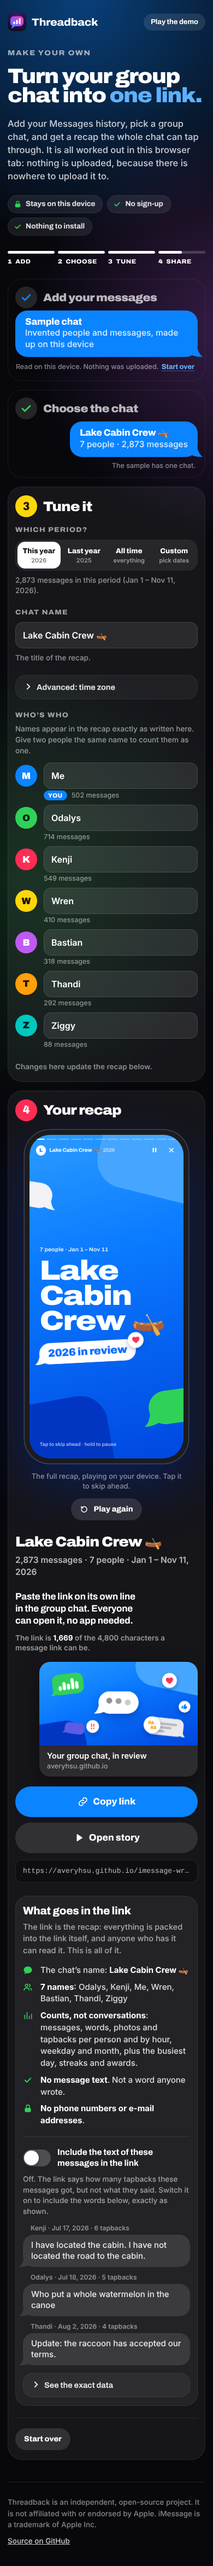
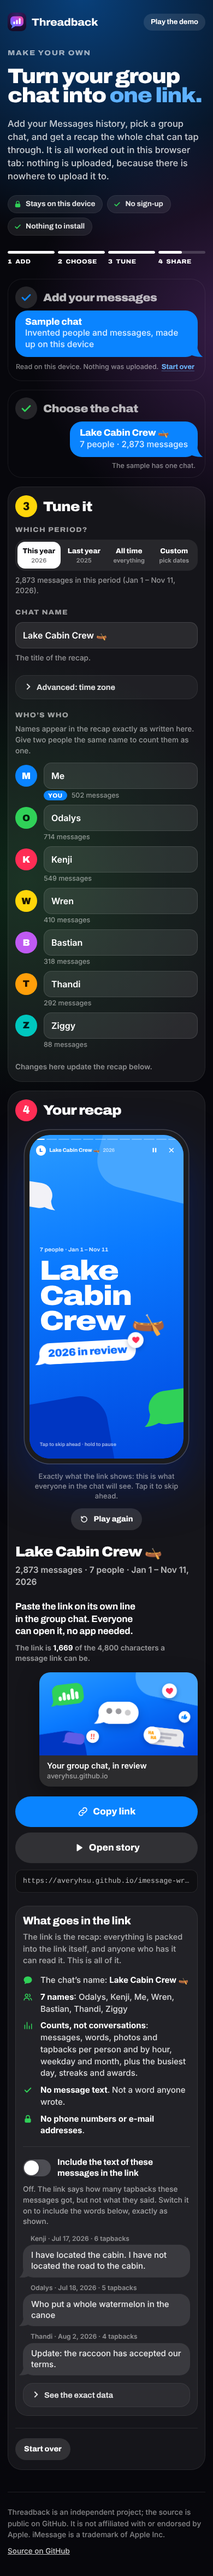
Make page: the preview holds exactly what the link holds
The preview frame used to be given the full stats, quotes included. The
story in it has its own "Copy link", which hands back the payload it was
opened with, so message text could leave the device with the quotes switch
off. The frame is now given the very payload of the share link and nothing
else: what you see is what you send, and flipping the switch rebuilds
both. An end-to-end check presses the story's own Copy link inside the
frame, switch off and switch on, and decodes what lands on the clipboard.

Also:
- First names by default. A full name from an address book is the owner's
  own label; the full name stays in the list as a local hint and one
  click brings the full names back.
- "Play again" and the nested-page guard no longer blank the frame when
  pressed while it is on its way somewhere else.
- A plain test run writes its screenshots to test-results/ and leaves the
  repository as it found it; `npm run shots:make` rewrites the committed
  pictures. CI fails if a run dirties the tree.
- Footer: "an independent project; the source is public on GitHub".
- Uneven #dates / #senders lists: the importer's message is shown as is.

Claude-Session: https://claude.ai/code/session_01HsT3WJgxawzje31yUV686t

diff --git a/web/make/make.js b/web/make/make.js
@@ -10,6 +10,10 @@
  * Privacy rules this file keeps:
  *  - nothing is requested from any other origin, and nothing is stored;
  *  - message text goes into the link only after the person switches it on (default off);
+ *  - the preview frame is given exactly the payload of the link, never more: the story in
+ *    it can copy and share its own link, so what it holds is what could be sent;
+ *  - people go by first names unless the person asks for the full ones (a full name in an
+ *    address book is the owner's own label);
  *  - raw phone numbers and e-mail addresses are shown on this device as a hint for naming
  *    people and telling chats apart, and never enter the stats, the link or the preview.
  *
@@ -33,7 +37,6 @@
   var Glyphs = root.WrappedGlyphs;
 
   var MAX_LINK = Config.MAX_URL_LENGTH;
-  var PREVIEW_MAX = 20000;          // the story refuses payloads much longer than this
   var HELP_URL = 'https://github.com/averyhsu/imessage-wrap/blob/main/docs/MAC.md';
   var DEVICE_TZ = (function () {
     try { return Intl.DateTimeFormat().resolvedOptions().timeZone || ''; } catch (error) { return ''; }
@@ -47,7 +50,8 @@
     chats: [],
     chat: null,         // {id, name, named, members, messages, last_unix, single}
     people: [],         // from the worker: [{key, name, named, handles, messages, me}]
-    names: {},          // person key -> the name typed for them
+    names: {},          // person key -> the name to show for them (typed, or a first name)
+    shortened: null,    // person key -> {short, before}: who was switched to a first name
     me: 'Me',
     chatName: '',       // typed chat name ("" = the chat's own)
     period: 'year',
@@ -533,6 +537,7 @@
       S.chat = null;
       S.people = [];
       S.names = {};
+      S.shortened = null;
       S.me = 'Me';
       S.chatName = '';
     }
@@ -1124,6 +1129,10 @@
   /** Open step 3 for S.chat. `year` (optional): the calendar year the chat is known to cover. */
   function startTune(year) {
     S.names = {};
+    S.shortened = null;
+    // First names to begin with. A full name from an address book ("Dave plumber") is the
+    // owner's private label for someone, not something to hand to the whole chat.
+    useFirstNames();
     S.me = 'Me';
     S.chatName = S.chat.named ? S.chat.name : '';
     S.start = '';
@@ -1217,9 +1226,15 @@
         input.setAttribute('aria-label', 'Name for ' + (person.handles[0] || person.name));
       }
       input.addEventListener('input', function () {
+        var typed = input.value.trim();
+        var first = S.shortened && S.shortened[person.key] ? S.shortened[person.key].short : '';
         if (person.me) S.me = input.value;
-        else if (input.value.trim() && input.value.trim() !== person.name) S.names[person.key] = input.value;
-        else delete S.names[person.key];
+        else if (typed && typed !== person.name) S.names[person.key] = input.value;
+        else if (!typed && first && person.named) S.names[person.key] = first;   // emptied: back to the first name
+        else {
+          delete S.names[person.key];
+          if (S.shortened) delete S.shortened[person.key];
+        }
         peopleTags();
         changed();
       });
@@ -1235,7 +1250,7 @@
     if (unnamed) {
       hint.textContent = (unnamed === 1 ? 'One person has' : unnamed + ' people have') +
         ' no name yet, so they would show as the last four digits of their number, like \u201C\u20261234\u201D. Type a name to replace it. ' +
-        'The full numbers below are only here to help you: they never go into the recap.';
+        'The full numbers shown next to each field are only there to help you: they never go into the recap.';
     }
     peopleTags();
   }
@@ -1253,23 +1268,56 @@
       var item = items[index];
       var name = shownName(person);
       item.querySelector('.mk-av').textContent = initial(name);
+      if (!person.me && person.named) {
+        item.querySelector('input').placeholder = S.shortened && S.shortened[person.key] ? S.shortened[person.key].short : person.name;
+      }
       var meta = item.querySelector('.mk-person__meta');
       meta.textContent = '';
       if (person.me) meta.appendChild(el('span', 'mk-tag mk-tag--you', 'You'));
       if (!person.me && !person.named && !(S.names[person.key] || '').trim()) meta.appendChild(el('span', 'mk-tag mk-tag--new', 'No name yet'));
       if (counts[name] > 1) meta.appendChild(el('span', 'mk-tag mk-tag--merge', 'Counted together'));
+      // Hints for the person at the keyboard only: the name as their address book has it,
+      // and the raw number or address. Neither goes into the recap.
+      if (!person.me && person.named && name !== person.name) meta.appendChild(el('span', 'mk-raw-handle', person.name));
       if (person.handles.length) meta.appendChild(el('span', 'mk-raw-handle', person.handles.join(', ')));
       meta.appendChild(el('span', '', plural(person.messages, 'message')));
       if (!person.me && /\s/.test(name)) spaced = true;
     });
-    $('first-names').hidden = !spaced;
+    var shortened = S.shortened && Object.keys(S.shortened).length > 0;
+    $('names-row').hidden = !(spaced || shortened);
+    $('names-note').textContent = shortened
+      ? 'First names to start with: the names in your address book are your own labels for people.'
+      : 'Full names are your own labels for people. The recap can use first names instead.';
+    $('first-names').textContent = shortened ? 'Use the full names' : 'Use first names only';
   }
 
   /**
-   * Shorten "Sam Rivera" to "Sam", or to "Sam R." when someone else is a Sam too. Works on
-   * the distinct names, so people who are counted together stay together and nobody is
-   * merged by accident.
+   * "Sam Rivera" -> "Sam", or "Sam R." when someone else is a Sam too, for every name in
+   * `names` that has more than one word. `taken` holds the names that stay as they are.
+   * Works on distinct names, so people who are counted together stay together and nobody
+   * is merged by accident. Returns {full name: short name}.
    */
+  function shortNames(names, taken) {
+    var used = {};
+    Object.keys(taken).forEach(function (name) { used[name] = true; });
+    var firsts = {};
+    names.forEach(function (name) {
+      var first = name.split(/\s+/)[0];
+      firsts[first] = (firsts[first] || 0) + 1;
+    });
+    var short = {};
+    names.forEach(function (name) {
+      var tokens = name.split(/\s+/);
+      var candidate = tokens[0];
+      if (firsts[candidate] > 1 || used[candidate]) candidate = tokens[0] + ' ' + Array.from(tokens[tokens.length - 1])[0] + '.';
+      if (used[candidate]) return;              // still a clash: this name stays as it is
+      used[candidate] = true;
+      short[name] = candidate;
+    });
+    return short;
+  }
+
+  /** Switch everyone with a longer name to a first name. Remembers what it replaced. */
   function useFirstNames() {
     var taken = {};
     var long = [];
@@ -1278,27 +1326,34 @@
       if (person.me || !/\s/.test(name)) taken[name] = true;
       else if (long.indexOf(name) === -1) long.push(name);
     });
-    var firsts = {};
-    long.forEach(function (name) {
-      var first = name.split(/\s+/)[0];
-      firsts[first] = (firsts[first] || 0) + 1;
-    });
-    var short = {};
-    long.forEach(function (name) {
-      var tokens = name.split(/\s+/);
-      var candidate = tokens[0];
-      if (firsts[candidate] > 1 || taken[candidate]) candidate = tokens[0] + ' ' + Array.from(tokens[tokens.length - 1])[0] + '.';
-      if (taken[candidate]) return;             // still a clash: this name stays as it is
-      taken[candidate] = true;
-      short[name] = candidate;
-    });
+    var short = shortNames(long, taken);
+    S.shortened = {};
     S.people.forEach(function (person, index) {
       if (person.me) return;
       var to = short[shownName(person)];
       if (!to) return;
+      S.shortened[person.key] = { short: to, before: S.names[person.key] };
       S.names[person.key] = to;
-      $('person-' + index).value = to;
+      var input = $('person-' + index);
+      if (input) input.value = to;
     });
+  }
+
+  /** Undo useFirstNames for every name that has not been changed by hand since. */
+  function useFullNames() {
+    var record = S.shortened || {};
+    S.people.forEach(function (person, index) {
+      var was = record[person.key];
+      if (!was || S.names[person.key] !== was.short) return;
+      if (was.before === undefined) delete S.names[person.key]; else S.names[person.key] = was.before;
+      var input = $('person-' + index);
+      if (input) input.value = S.names[person.key] || person.name;
+    });
+    S.shortened = null;
+  }
+
+  function toggleFirstNames() {
+    if (S.shortened && Object.keys(S.shortened).length) useFullNames(); else useFirstNames();
     peopleTags();
     changed();
   }
@@ -1402,13 +1457,15 @@
     }
   }
 
-  function previewLink(stats) {
+  /**
+   * The address the preview frame plays: this site's own story page with EXACTLY the
+   * payload of the link being shared. What you see is what you send. The story can copy
+   * and share its own link, so it must never be handed more than the link holds: with the
+   * quotes switch off there is no message text in the frame at all.
+   */
+  function previewAddress(link) {
     var base = new URL('../index.html', root.location.href).href.split('#')[0];
-    try {
-      return Engine.fitLink(stats, { quotes: true, base_url: base, max_length: PREVIEW_MAX }).url;
-    } catch (error) {
-      return S.fits && S.fits.off ? base + '#' + S.fits.off.url.split('#')[1] : base;
-    }
+    return base + '#' + link.url.slice(link.url.indexOf('#') + 1);
   }
 
   function onStats(stats) {
@@ -1446,7 +1503,6 @@
     clearError('recap');
     $('recap').hidden = false;
     renderRecap();
-    showPreview(previewLink(stats));
     say('Your recap is ready: ' + plural(stats.totals.messages, 'message') + '.');
   }
 
@@ -1474,12 +1530,9 @@
   function replayPreview() {
     var frame = $('preview');
     try {
-      frame.contentWindow.WrappedApp.route();
+      frame.contentWindow.WrappedApp.route();   // the story page: start over
     } catch (error) {
-      var url = S.previewUrl;
-      S.previewUrl = '';
-      frame.removeAttribute('src');
-      showPreview(url);
+      if (S.previewUrl) frame.src = S.previewUrl;   // anything else in the frame: load the story
     }
   }
 
@@ -1487,11 +1540,8 @@
   function onPreviewLoad() {
     var frame = $('preview');
     try {
-      if (/\/make\/(index\.html)?$/.test(frame.contentWindow.location.pathname)) {
-        var url = S.previewUrl;
-        S.previewUrl = '';
-        frame.removeAttribute('src');
-        if (url) showPreview(url);
+      if (S.previewUrl && /\/make\/(index\.html)?$/.test(frame.contentWindow.location.pathname)) {
+        frame.src = S.previewUrl;
       }
     } catch (error) { /* not ours to look at */ }
   }
@@ -1589,6 +1639,9 @@
 
     renderQuotes(quotesOn);
     $('raw-json').textContent = JSON.stringify(link.stats, null, 2);
+
+    // The frame plays the very link shown here: flipping the switch rebuilds both.
+    showPreview(previewAddress(link));
 
     $('share').hidden = typeof navigator.share !== 'function';
   }
@@ -1815,7 +1868,7 @@
       fillPeriod();
       changed();
     });
-    $('first-names').addEventListener('click', useFirstNames);
+    $('first-names').addEventListener('click', toggleFirstNames);
     $('create').addEventListener('click', createRecap);
 
     $('copy').addEventListener('click', copyLink);

diff --git a/web/make/index.html b/web/make/index.html
@@ -298,7 +298,7 @@
               <p class="mk-field__hint" id="people-hint">Names appear in the recap exactly as written here. Give two people the same name to count them as one.</p>
               <p class="mk-field__hint mk-field__hint--note" id="unnamed-hint" hidden></p>
               <ul class="mk-people" id="people" aria-labelledby="people-label"></ul>
-              <button type="button" class="mk-linkbtn" id="first-names" hidden>Use first names only</button>
+              <p class="mk-names" id="names-row" hidden><span id="names-note"></span> <button type="button" class="mk-linkbtn" id="first-names">Use first names only</button></p>
             </div>
           </div>
         </div>
@@ -327,7 +327,7 @@
         <div class="mk-recap" id="recap" hidden>
           <div class="mk-recap__preview">
             <div class="mk-phone"><iframe id="preview" title="Preview of your recap"></iframe></div>
-            <p class="mk-recap__cap">The full recap, playing on your device. Tap it to skip ahead.</p>
+            <p class="mk-recap__cap">Exactly what the link shows: this is what everyone in the chat will see. Tap it to skip ahead.</p>
             <button type="button" class="mk-btn mk-btn--small" id="replay"><span class="mk-ico" data-icon="replay"></span>Play again</button>
           </div>
 
@@ -387,7 +387,7 @@
   </main>
 
   <footer class="mk-foot">
-    <p><span data-brand></span> is an independent, open-source project. It is not affiliated with or endorsed by Apple. iMessage is a trademark of Apple Inc.</p>
+    <p><span data-brand></span> is an independent project; the source is public on GitHub. It is not affiliated with or endorsed by Apple. iMessage is a trademark of Apple Inc.</p>
     <p><a href="https://github.com/averyhsu/imessage-wrap" rel="noopener">Source on GitHub</a></p>
   </footer>
 </div>

diff --git a/web/make/make.css b/web/make/make.css
@@ -937,7 +937,7 @@ kbd {
 .mk-chat__name { display: block; font: 800 17.5px/1.2 var(--font-display); letter-spacing: -0.012em; overflow: hidden; text-overflow: ellipsis; white-space: nowrap; }
 .mk-chat__meta,
 .mk-chat__with { display: block; margin-top: 3px; font: 500 13.5px/1.3 var(--font-text); color: rgba(255, 255, 255, 0.58); overflow: hidden; text-overflow: ellipsis; white-space: nowrap; }
-.mk-chat__with { color: rgba(255, 255, 255, 0.42); }
+.mk-chat__with { color: rgba(255, 255, 255, 0.52); }
 .mk-chat.is-picked .mk-chat__meta,
 .mk-chat.is-picked .mk-chat__with { color: rgba(255, 255, 255, 0.8); }
 .mk-chat__count { text-align: right; font: 900 19px/1 var(--font-display); font-stretch: 90%; letter-spacing: -0.01em; }
@@ -1064,7 +1064,7 @@ input[type="date"].mk-input { color-scheme: dark; }
 .mk-tag--merge { background: rgba(191, 90, 242, 0.3); color: #e7c4ff; }
 .mk-tag--new { background: rgba(255, 214, 10, 0.16); color: var(--yellow); }
 
-#first-names { margin-top: 12px; }
+.mk-names { margin-top: 12px; font: 500 13.5px/1.45 var(--font-text); color: rgba(255, 255, 255, 0.54); }
 
 .mk-step__cta { display: flex; flex-wrap: wrap; align-items: center; gap: 12px 18px; margin-top: clamp(22px, 3vw, 30px); }
 .mk-step__cta-note { font: 500 14px/1.4 var(--font-text); color: rgba(255, 255, 255, 0.55); }
